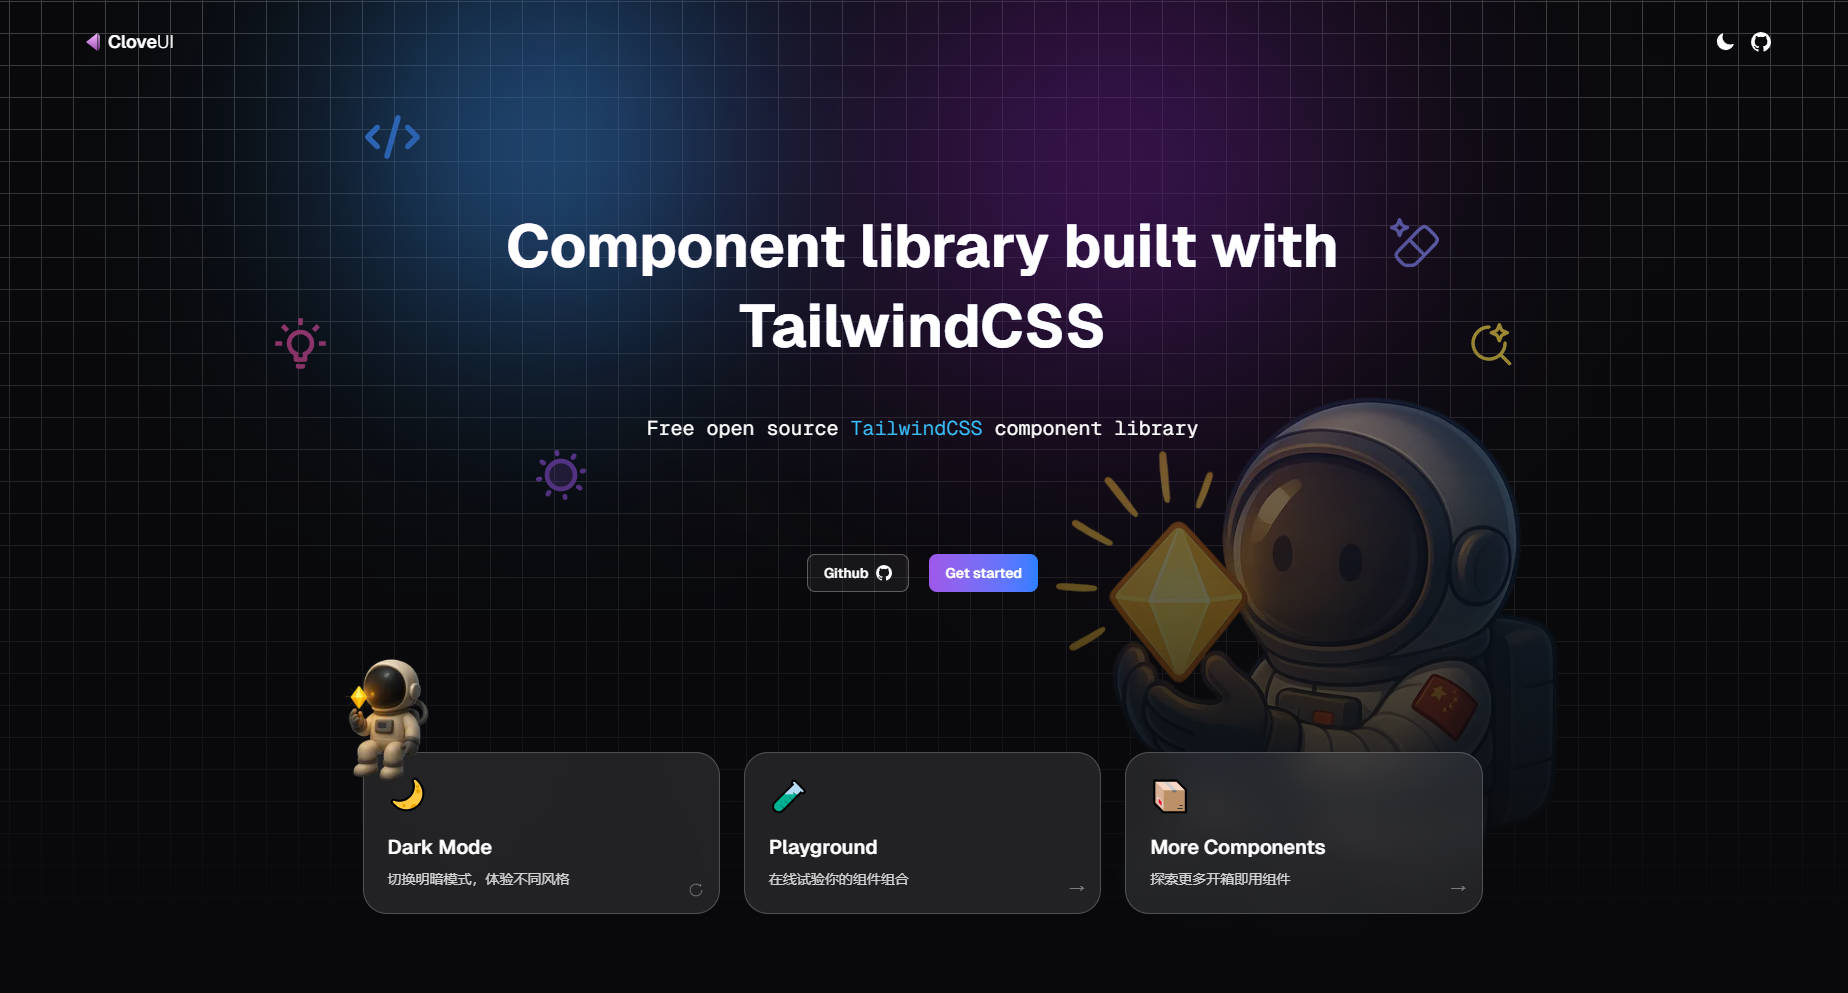
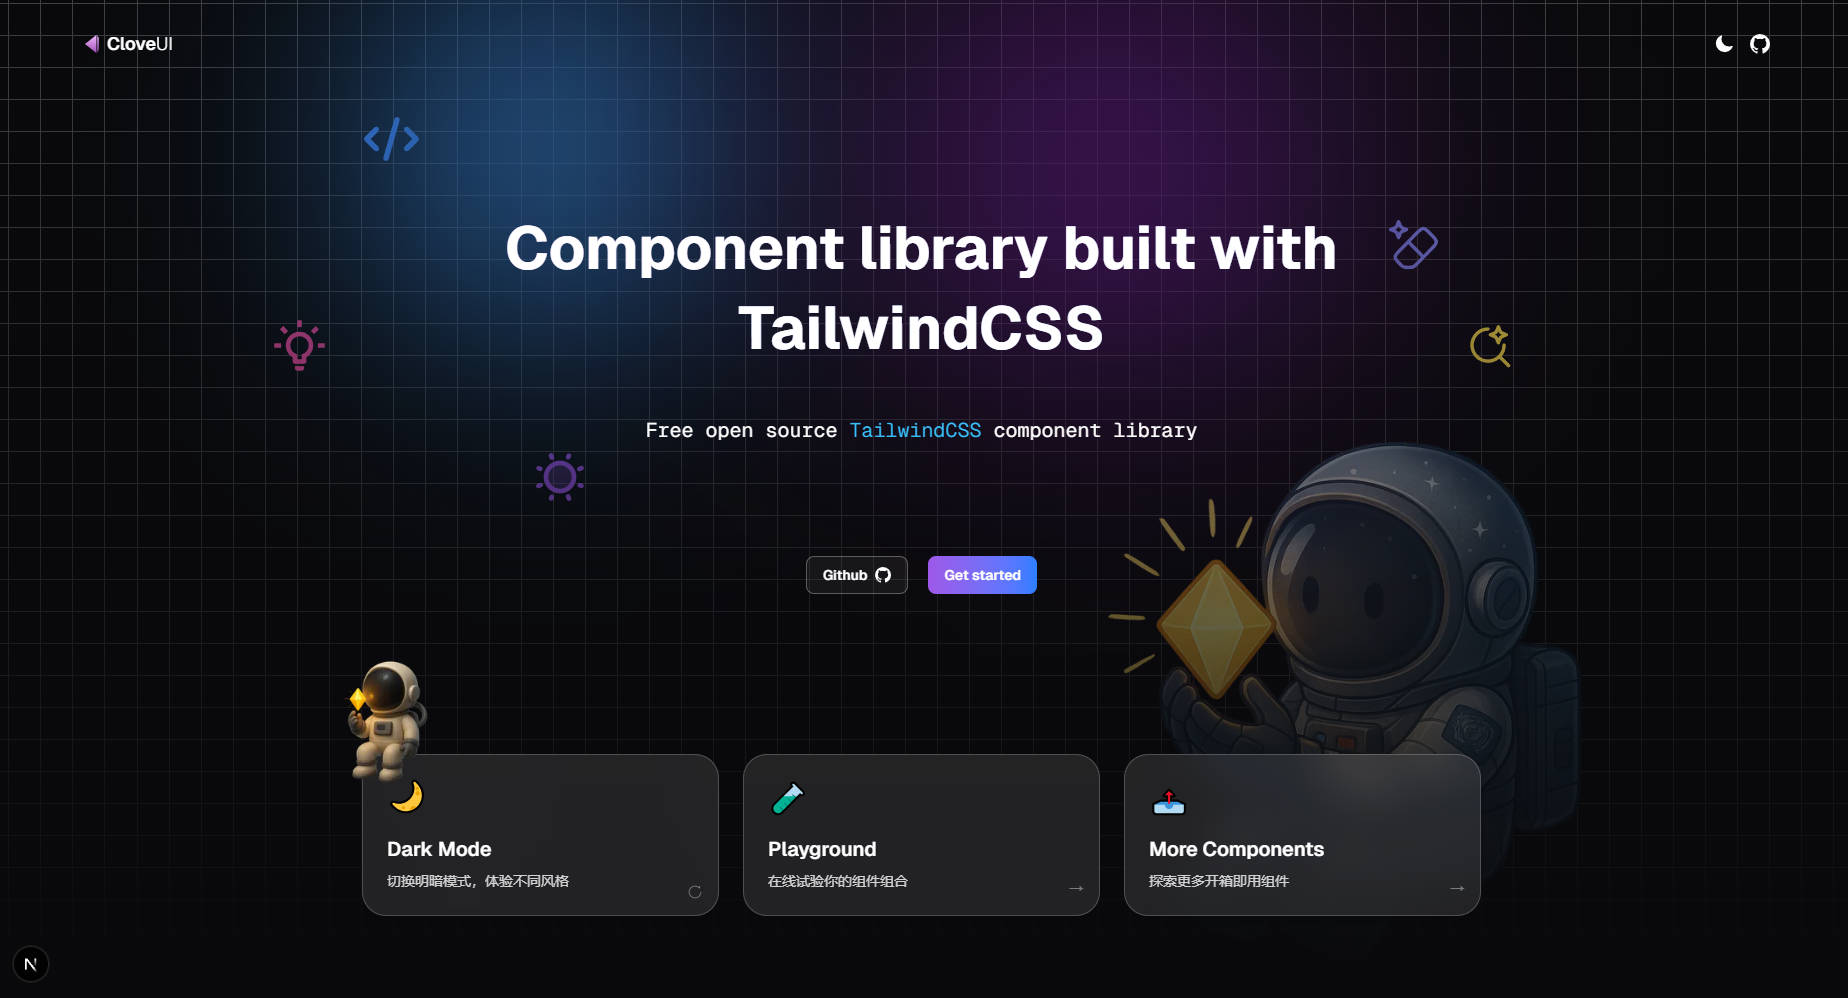
💄 homepage

diff --git a/src/app/page.tsx b/src/app/page.tsx
@@ -162,9 +162,9 @@ export default async function Home() {
           </div>
         </div>
       </LayoutContent>
-      <div className="absolute top-0 left-0 -z-10 h-screen w-full bg-[url(/grid.svg)] [mask-image:linear-gradient(180deg,white_1%,rgba(255,255,255,0)_95%)] bg-center dark:bg-[url(/gridDark.svg)]">
+      <div className="absolute top-0 left-0 -z-10 h-screen w-full bg-[url(/grid.svg)] [mask-image:linear-gradient(180deg,white_1%,rgba(255,255,255,0)_98%)] bg-center dark:bg-[url(/gridDark.svg)]">
         <AnimatedVis className="h-full">
-          <Image src="/rbt.png" className="absolute top-[38%] right-[12%] z-10" width={600} height={600} alt="" />
+          <Image src="/rbt.png" className="absolute top-[42%] right-[11%] z-10" width={560} height={560} alt="" />
           <svg
             className="absolute top-[12%] left-[20%]"
             xmlns="http://www.w3.org/2000/svg"
